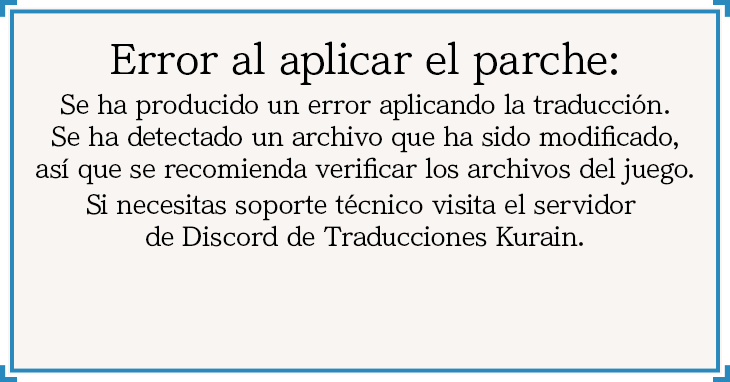
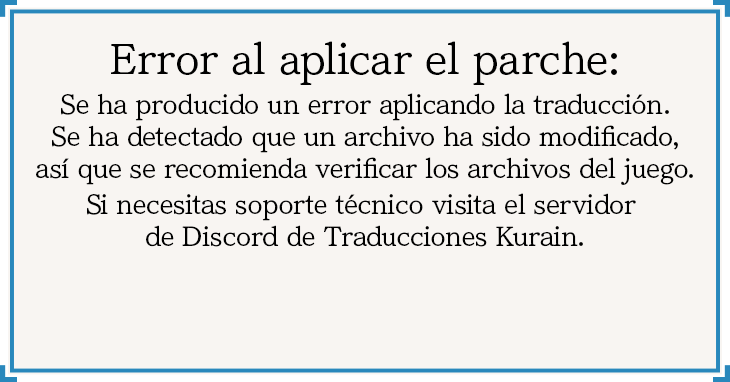
Agregada exception de archivo no encontrado y asociada con la ventana de archivo modificado (que tambien fue modificada)

Changed region(s): [[0.3315, 0.3168, 0.6027, 0.4031]]

diff --git a/AATrilogyPatcher/Patch/patchCtrl.cs b/AATrilogyPatcher/Patch/patchCtrl.cs
@@ -133,6 +133,7 @@ namespace AATrilogyPatcher.Patch
             }
 
             var patchGame = PatchGame();
+            System.Diagnostics.Debug.WriteLine(patchGame.Item2);
             if (patchGame.Item1 > 0 && patchGame.Item1 != 1)
             {
                 return ((int)MainWindowViewModel.ErrorCodes.PatchError, patchGame.Item2);
@@ -184,6 +185,10 @@ namespace AATrilogyPatcher.Patch
                 if (result.Item1 == 0)
                     return (0, string.Empty);
                 return (result.Item1, $"Se ha producido un error aplicando la traducción.\nError: {result.Item1}\nMensaje: {result.Item2}");
+            }
+            catch (FileNotFoundException e)
+            {
+                return(1, $"Se ha producido un error aplicando la traducción.\nError: INTERNAL CRASH\nMensaje:\n{e.Message}\n{e.StackTrace}");
             }
             catch (Exception e)
             {
